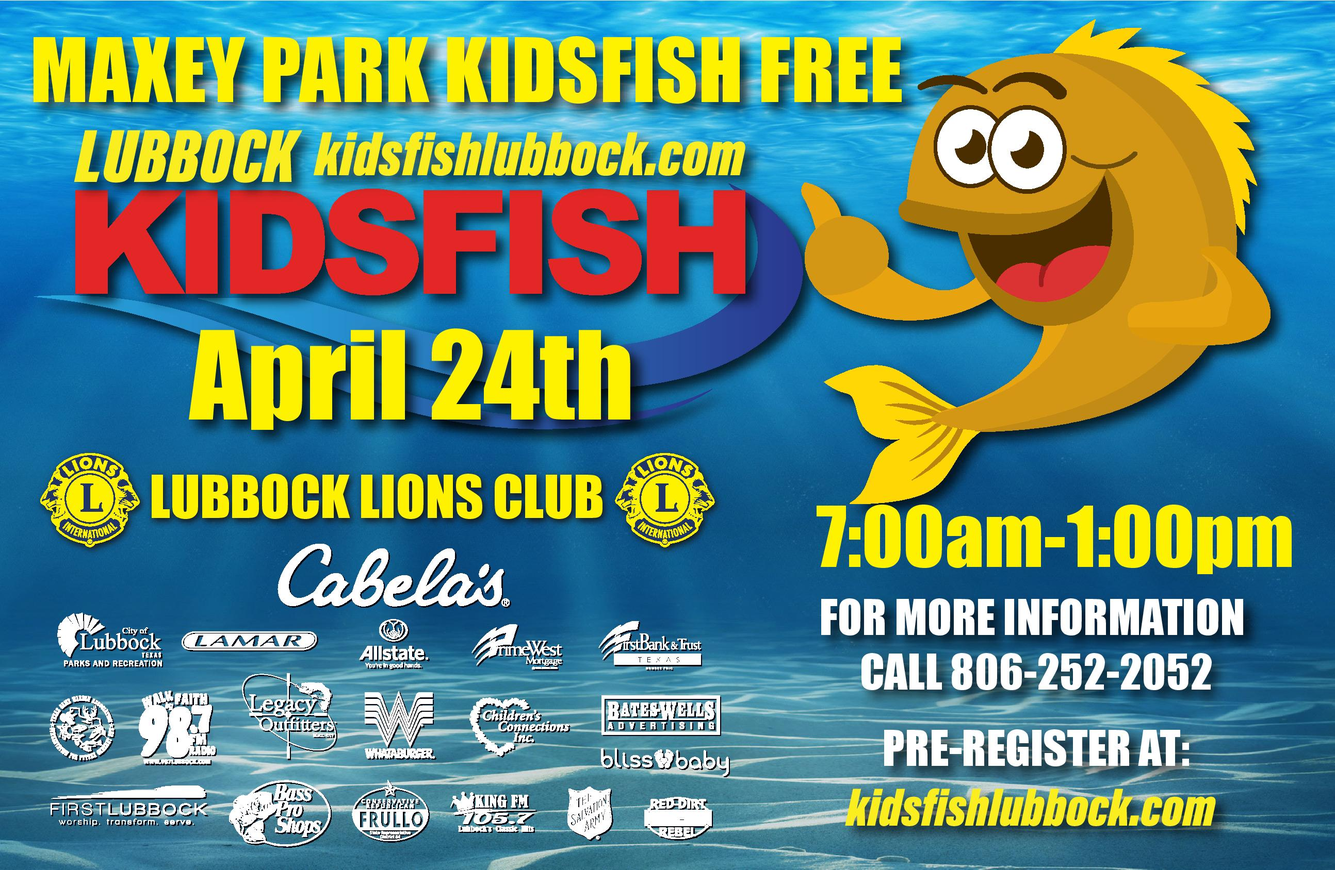
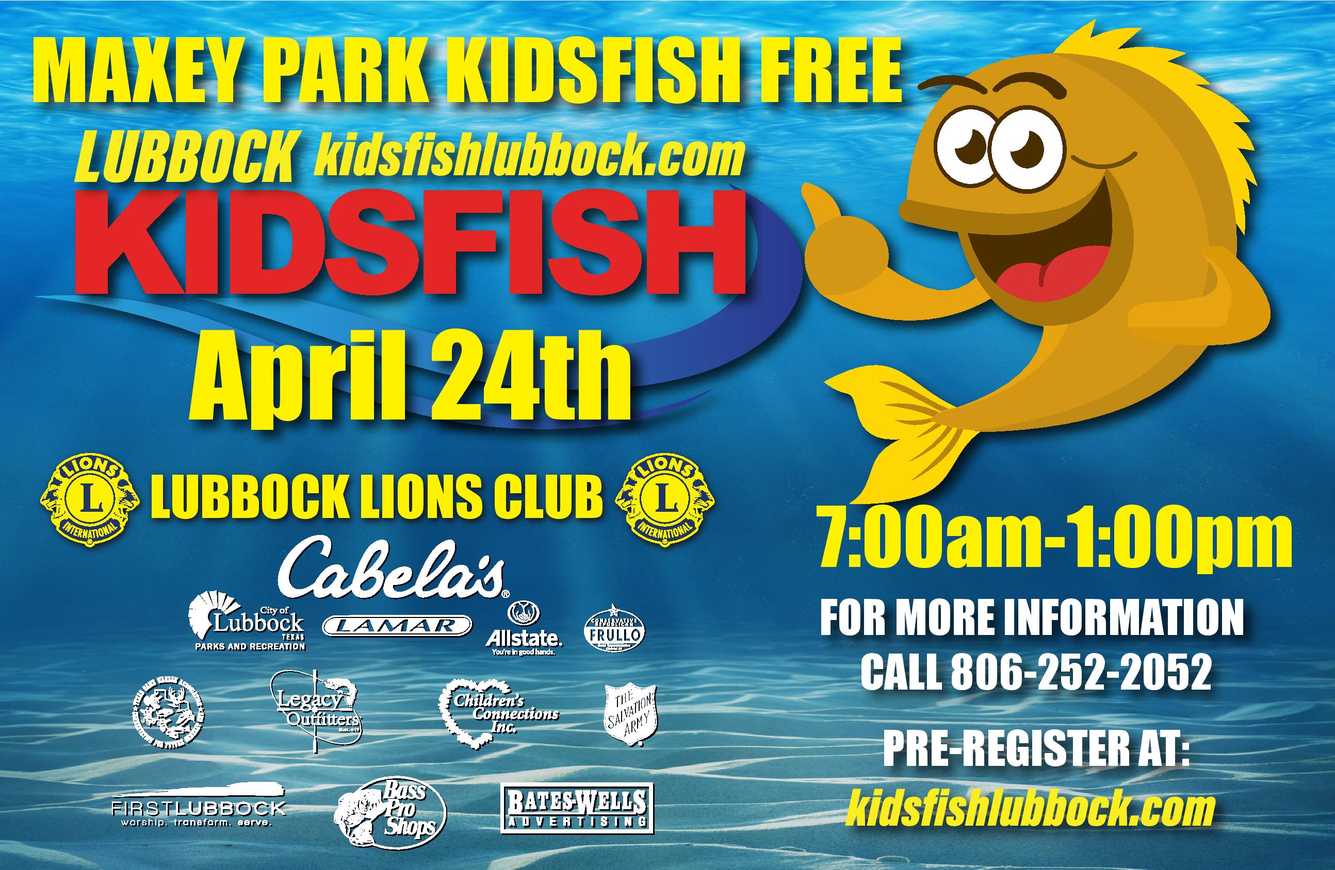
Updating sponsors images

Changed region(s): [[0.0309, 0.6161, 0.5564, 0.9858]]

diff --git a/templates/sponsors.html b/templates/sponsors.html
@@ -8,7 +8,8 @@
                         <div class="section_title"><h1>Sponsors</h1></div>
                         <div class="section_subtitle">Those Who Helped Make This Possible</div>
 					</div>
-					<img src="{{ url_for('static', filename='images/sponsors.png') }}" alt="">
+					<br />
+					<img src="{{ url_for('static', filename='images/sponsors.jpg') }}" alt="">
 				</div>
 			</div>
 		</div>
